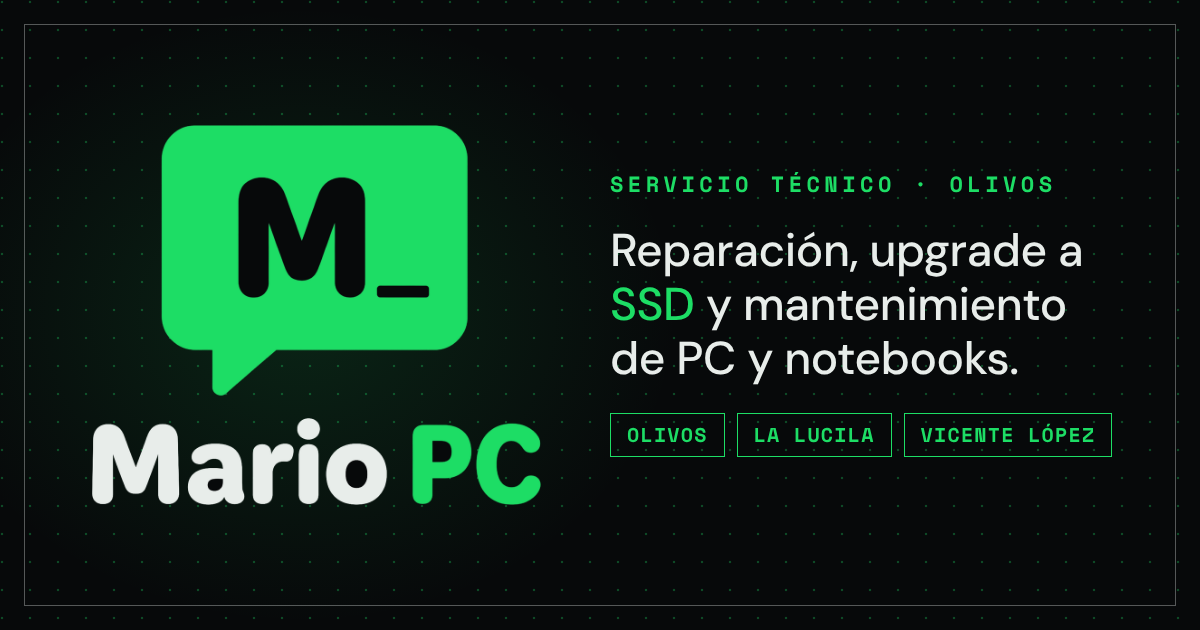
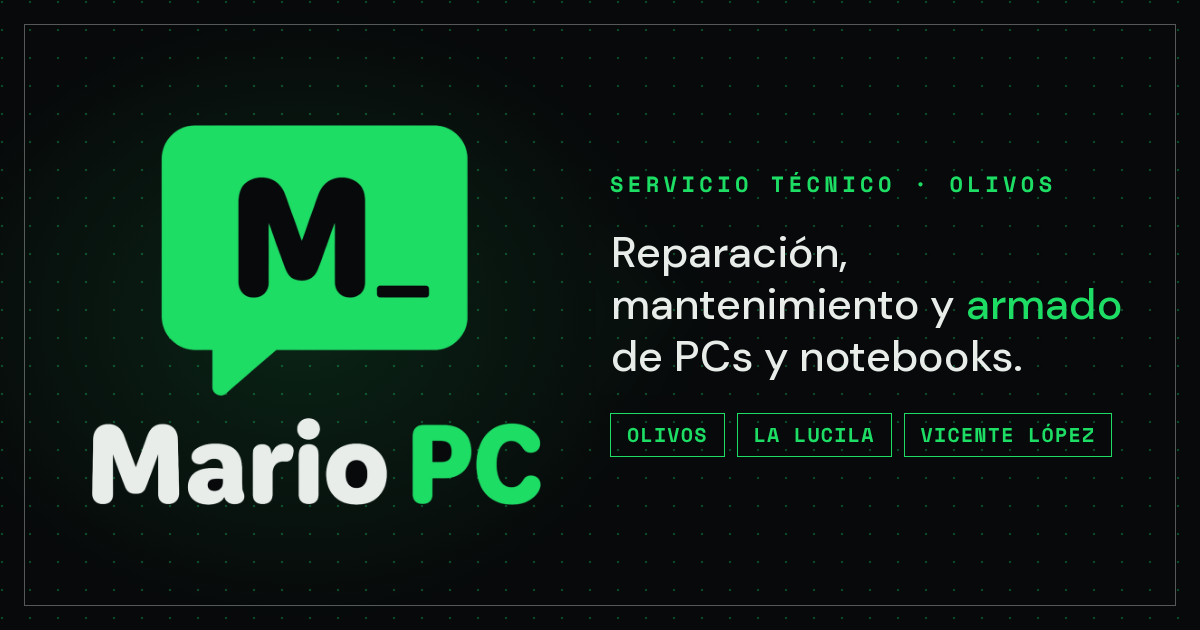
Add files via upload

Changed region(s): [[0.4933, 0.3619, 0.9558, 0.5127], [0.4933, 0.5429, 0.8633, 0.6032]]

diff --git a/index.html b/index.html
@@ -13,7 +13,7 @@
         gtag('config', 'G-VBVPJ6H5H5');
     </script>
 
-    <meta name="description" content="Mario PC — Servicio técnico de computadoras en Olivos, Buenos Aires. Upgrade HDD a SSD, reparación de hardware, formateo e instalación de Windows. Diagnóstico sin cargo. Zona: Olivos, La Lucila, Vicente López.">
+    <meta name="description" content="Mario PC — Reparación, mantenimiento y armado de PCs y notebooks en Olivos, Buenos Aires. Formateo, instalación de Windows y upgrade a SSD. Diagnóstico sin cargo. Zona: Olivos, La Lucila, Vicente López.">
     <link rel="canonical" href="https://www.mariopc.com.ar/">
     <title>Mario PC — Servicio Técnico | Olivos, La Lucila, Vicente López</title>
 
@@ -31,16 +31,16 @@
     <meta property="og:site_name" content="Mario PC">
     <meta property="og:locale" content="es_AR">
     <meta property="og:title" content="Mario PC — Servicio Técnico | Olivos, La Lucila, Vicente López">
-    <meta property="og:description" content="Servicio técnico de computadoras en Olivos, Buenos Aires. Upgrade HDD a SSD, reparación de hardware, formateo e instalación de Windows. Diagnóstico sin cargo.">
-    <meta property="og:image" content="https://www.mariopc.com.ar/og-image.png?v=2">
+    <meta property="og:description" content="Reparación, mantenimiento y armado de PCs y notebooks en Olivos, Buenos Aires. Formateo, instalación de Windows y upgrade a SSD. Diagnóstico sin cargo.">
+    <meta property="og:image" content="https://www.mariopc.com.ar/og-image.png?v=3">
     <meta property="og:image:width" content="1200">
     <meta property="og:image:height" content="630">
 
     <!-- Twitter Card -->
     <meta name="twitter:card" content="summary_large_image">
     <meta name="twitter:title" content="Mario PC — Servicio Técnico | Olivos, La Lucila, Vicente López">
-    <meta name="twitter:description" content="Servicio técnico de computadoras en Olivos, Buenos Aires. Upgrade HDD a SSD, reparación de hardware, formateo e instalación de Windows. Diagnóstico sin cargo.">
-    <meta name="twitter:image" content="https://www.mariopc.com.ar/og-image.png?v=2">
+    <meta name="twitter:description" content="Reparación, mantenimiento y armado de PCs y notebooks en Olivos, Buenos Aires. Formateo, instalación de Windows y upgrade a SSD. Diagnóstico sin cargo.">
+    <meta name="twitter:image" content="https://www.mariopc.com.ar/og-image.png?v=3">
 
     <link rel="preconnect" href="https://fonts.googleapis.com">
     <link rel="preconnect" href="https://fonts.gstatic.com" crossorigin>
@@ -2507,7 +2507,7 @@
       "@context": "https://schema.org",
       "@type": "LocalBusiness",
       "name": "Mario PC",
-      "description": "Servicio técnico de computadoras y celulares en Olivos, Buenos Aires. Especialistas en upgrade de HDD a SSD, reparación de hardware, formateo e instalación de Windows, limpieza y mantenimiento preventivo. Diagnóstico sin cargo.",
+      "description": "Servicio técnico de computadoras y celulares en Olivos, Buenos Aires. Reparación, mantenimiento y armado de PCs y notebooks, formateo e instalación de Windows, upgrade de HDD a SSD y limpieza preventiva. Diagnóstico sin cargo.",
       "url": "https://www.mariopc.com.ar",
       "telephone": "+5491123999259",
       "email": "mariopcrepara@gmail.com",

diff --git a/faq.html b/faq.html
@@ -13,7 +13,7 @@
         gtag('config', 'G-VBVPJ6H5H5');
     </script>
 
-    <meta name="description" content="Preguntas frecuentes sobre el servicio técnico de Mario PC en Olivos. Respondemos tus dudas sobre upgrade a SSD, reparación de hardware, limpieza de PC y soporte técnico remoto.">
+    <meta name="description" content="Preguntas frecuentes sobre el servicio técnico de Mario PC en Olivos: reparación, mantenimiento y armado de PCs y notebooks, upgrade a SSD y soporte técnico remoto.">
     <link rel="canonical" href="https://www.mariopc.com.ar/faq.html">
     <title>Preguntas Frecuentes — Mario PC | Olivos, Buenos Aires</title>
 
@@ -31,16 +31,16 @@
     <meta property="og:site_name" content="Mario PC">
     <meta property="og:locale" content="es_AR">
     <meta property="og:title" content="Preguntas Frecuentes — Mario PC | Olivos, Buenos Aires">
-    <meta property="og:description" content="Preguntas frecuentes sobre el servicio técnico de Mario PC en Olivos. Upgrade a SSD, reparación de hardware, limpieza de PC y soporte técnico remoto.">
-    <meta property="og:image" content="https://www.mariopc.com.ar/og-image.png?v=2">
+    <meta property="og:description" content="Preguntas frecuentes sobre el servicio técnico de Mario PC en Olivos: reparación, mantenimiento y armado de PCs y notebooks, upgrade a SSD y soporte técnico remoto.">
+    <meta property="og:image" content="https://www.mariopc.com.ar/og-image.png?v=3">
     <meta property="og:image:width" content="1200">
     <meta property="og:image:height" content="630">
 
     <!-- Twitter Card -->
     <meta name="twitter:card" content="summary_large_image">
     <meta name="twitter:title" content="Preguntas Frecuentes — Mario PC | Olivos, Buenos Aires">
-    <meta name="twitter:description" content="Preguntas frecuentes sobre el servicio técnico de Mario PC en Olivos. Upgrade a SSD, reparación de hardware, limpieza de PC y soporte técnico remoto.">
-    <meta name="twitter:image" content="https://www.mariopc.com.ar/og-image.png?v=2">
+    <meta name="twitter:description" content="Preguntas frecuentes sobre el servicio técnico de Mario PC en Olivos: reparación, mantenimiento y armado de PCs y notebooks, upgrade a SSD y soporte técnico remoto.">
+    <meta name="twitter:image" content="https://www.mariopc.com.ar/og-image.png?v=3">
 
     <link rel="preconnect" href="https://fonts.googleapis.com">
     <link rel="preconnect" href="https://fonts.gstatic.com" crossorigin>

diff --git a/empresas.html b/empresas.html
@@ -32,7 +32,7 @@
     <meta property="og:locale" content="es_AR">
     <meta property="og:title" content="Retiro y borrado seguro de equipos para empresas — Mario PC | Olivos">
     <meta property="og:description" content="Retiro de equipos informáticos en desuso para empresas de zona norte: borrado de datos según NIST 800-88, certificado por número de serie y disposición responsable. Sin costo para la empresa.">
-    <meta property="og:image" content="https://www.mariopc.com.ar/og-image.png?v=2">
+    <meta property="og:image" content="https://www.mariopc.com.ar/og-image.png?v=3">
     <meta property="og:image:width" content="1200">
     <meta property="og:image:height" content="630">
 
@@ -40,7 +40,7 @@
     <meta name="twitter:card" content="summary_large_image">
     <meta name="twitter:title" content="Retiro y borrado seguro de equipos para empresas — Mario PC | Olivos">
     <meta name="twitter:description" content="Retiro de equipos informáticos en desuso para empresas de zona norte: borrado de datos según NIST 800-88, certificado por número de serie y disposición responsable. Sin costo para la empresa.">
-    <meta name="twitter:image" content="https://www.mariopc.com.ar/og-image.png?v=2">
+    <meta name="twitter:image" content="https://www.mariopc.com.ar/og-image.png?v=3">
 
     <link rel="preconnect" href="https://fonts.googleapis.com">
     <link rel="preconnect" href="https://fonts.gstatic.com" crossorigin>

diff --git a/blog.html b/blog.html
@@ -32,7 +32,7 @@
     <meta property="og:locale" content="es_AR">
     <meta property="og:title" content="Blog — Mario PC | Olivos, Buenos Aires">
     <meta property="og:description" content="Tips y notas sobre mantenimiento de PC, notebooks y celulares, escritas desde el taller en Olivos.">
-    <meta property="og:image" content="https://www.mariopc.com.ar/og-image.png?v=2">
+    <meta property="og:image" content="https://www.mariopc.com.ar/og-image.png?v=3">
     <meta property="og:image:width" content="1200">
     <meta property="og:image:height" content="630">
 
@@ -40,7 +40,7 @@
     <meta name="twitter:card" content="summary_large_image">
     <meta name="twitter:title" content="Blog — Mario PC | Olivos, Buenos Aires">
     <meta name="twitter:description" content="Tips y notas sobre mantenimiento de PC, notebooks y celulares, escritas desde el taller en Olivos.">
-    <meta name="twitter:image" content="https://www.mariopc.com.ar/og-image.png?v=2">
+    <meta name="twitter:image" content="https://www.mariopc.com.ar/og-image.png?v=3">
 
     <link rel="preconnect" href="https://fonts.googleapis.com">
     <link rel="preconnect" href="https://fonts.gstatic.com" crossorigin>
